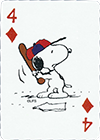
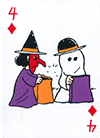
Image displaying in waste and stock piles, new function settingStockWaste, and corresponding css configuration.

diff --git a/js/app.js b/js/app.js
@@ -13,6 +13,7 @@ var stock;
 var waste;
 var tableauSections;
 
+
 /*----- cached element references -----*/
 
 // This is the cached area to reference the items called on in the DOM
@@ -48,15 +49,24 @@ function init() {
     // displayActive(); // show active cards function?
 }
 
-function addWaste(){
+function addWaste() {
     if (!stock.length) {
         stock = [...waste];
         waste = [];
         return
     }
     waste.push(stock.pop());
+    displayAvailableWaste();
     console.log(waste);
+    settingStockWaste();
 }
+
+function displayAvailableWaste() {
+    var lastWaste = waste[waste.length - 1];
+    lastWaste.isActive = true;
+}
+
+
 
 
 function render() {
@@ -73,6 +83,10 @@ function render() {
             foundationPiles[i].setAttribute("style",`background-image: url('img/${i}.png');`);
         } // This is to be changed when the functionality of clicking is enabled.
     })
+    settingStockWaste();
+    checkWin();
+}
+function settingStockWaste(){
     if (!stock.length) {
         stockEl.setAttribute("style","background-image:url('img/refresh.png');");
     } else {
@@ -80,11 +94,11 @@ function render() {
     }
     if (!waste.length) {
         wasteEl.setAttribute("style", "background-image: none;");
-    } else {
-        wasteEl.setAttribute("style",`background-image:url(${this.imgLink});`)
-        console.log();
+    } else if (waste.length) {
+        var lastWaste = waste[waste.length - 1];
+        wasteEl.setAttribute("style",`background-image:url('${lastWaste.imgLink}');`)
     }
-    
+} 
     
     // wasteEl.forEach(function(,){
 
@@ -93,8 +107,7 @@ function render() {
 
 
 
-    checkWin();
-}
+    
 
 // Keep in mind the function above will handle other data.
 

diff --git a/css/style.css b/css/style.css
@@ -99,6 +99,7 @@ button {
     box-sizing: content-box;
     position: relative;
     left: 7%;
+    background-repeat: no-repeat;
 }
 
 #d {
